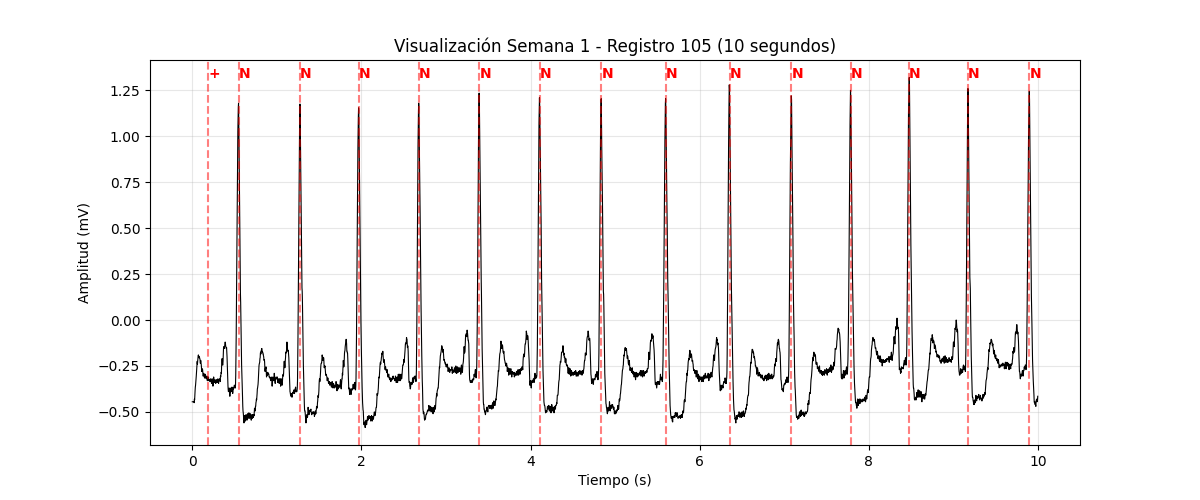
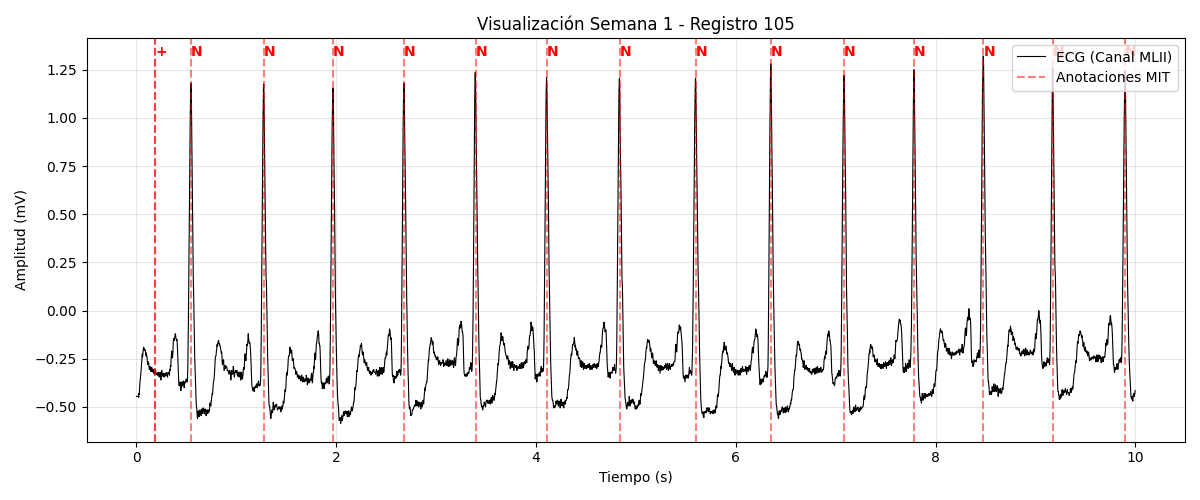
Semana 1: Modificacion del codigo para que no sea codigo suelto y tenga una estructura orientada a objetos

diff --git a/modulos/semana1.py b/modulos/semana1.py
@@ -3,71 +3,87 @@ import os
 import matplotlib.pyplot as plt
 import numpy as np
 
-# 1. CONFIGURACIÓN DE RUTAS
+# Configuración de rutas
 BASE_DIR = os.path.dirname(os.path.dirname(os.path.abspath(__file__)))
 DATA_PATH = os.path.join(BASE_DIR, 'datos')
 RESULT_PATH = os.path.join(BASE_DIR, 'resultados')
 
-if not os.path.exists(RESULT_PATH):
-    os.makedirs(RESULT_PATH)
+class AdquisicionPhysioNet:
+    """
+    Clase para gestionar la descarga, lectura y visualización de señales
+    provenientes de la base de datos MIT-BIH de PhysioNet.
+    """
 
+    def __init__(self, nombre_registro):
+        """
+        Inicializa la clase con el nombre del registro y define las rutas.
+        :param nombre_registro: ID del registro (ej. '100')
+        """
+        self.nombre_reg = nombre_registro
+        self.ruta_completa = os.path.join(DATA_PATH, nombre_registro)
+        self.record = None
+        self.ann = None
 
-def graficar_semana_1(nombre_reg, segundos=10):
-    ruta_reg = os.path.join(DATA_PATH, nombre_reg)
+    def leer_metadatos(self):
+        """
+        Lee el archivo .hea y extrae la frecuencia de muestreo y metadatos.
+        Imprime la información técnica en la consola.
+        """
+        self.record = wfdb.rdrecord(self.ruta_completa)
+        fs = self.record.fs
+        unidades = self.record.units[0]
+        n_derivaciones = self.record.n_sig
+        duracion_seg = self.record.sig_len / fs
 
-    # --- PUNTO 2: LECTURA Y EXTRACCIÓN DE METADATOS ---
-    # Leemos el registro completo para extraer la info del encabezado (.hea)
-    record = wfdb.rdrecord(ruta_reg)
+        print(f"\n" + "="*40)
+        print(f"ANÁLISIS DEL REGISTRO: {self.nombre_reg}")
+        print(f"Frecuencia de Muestreo: {fs} Hz")
+        print(f"Duración Total: {duracion_seg:.2f} segundos")
+        print(f"Número de Derivaciones: {n_derivaciones}")
+        print(f"Unidades de la Señal: {unidades}")
+        print("="*40)
 
-    # Extracción de variables requeridas
-    fs = record.fs
-    unidades = record.units[0]  # Usualmente 'mV'
-    n_derivaciones = record.n_sig
-    nombres_deriv = record.sig_name
-    duracion_seg = record.sig_len / fs
+    def graficar_señal(self, segundos=10):
+        """
+        Genera una gráfica de la señal en mV con sus respectivas anotaciones.
+        :param segundos: Cantidad de tiempo a visualizar.
+        """
+        muestras = int(self.record.fs * segundos)
+        record_plot = wfdb.rdrecord(self.ruta_completa, sampto=muestras)
+        self.ann = wfdb.rdann(self.ruta_completa, 'atr', sampto=muestras)
 
-    # Impresión en consola según requerimiento de la guía
-    print(f"\n" + "=" * 40)
-    print(f"ANÁLISIS DEL REGISTRO: {nombre_reg}")
-    print(f"Frecuencia de Muestreo: {fs} Hz")
-    print(f"Duración Total: {duracion_seg:.2f} segundos")
-    print(f"Número de Derivaciones: {n_derivaciones}")
-    print(f"Nombres de Derivaciones: {nombres_deriv}")
-    print(f"Unidades de la Señal: {unidades}")
-    print("=" * 40)
+        tiempo = np.arange(len(record_plot.p_signal)) / self.record.fs
+        senal = record_plot.p_signal[:, 0]
 
-    # --- PUNTO 3: VISUALIZACIÓN ---
-    # Volvemos a leer solo los 10 segundos para la gráfica
-    muestras_10s = int(fs * segundos)
-    record_plot = wfdb.rdrecord(ruta_reg, sampto=muestras_10s)
-    ann = wfdb.rdann(ruta_reg, 'atr', sampto=muestras_10s)
+        plt.figure(figsize=(12, 5))
+        # Se agrega 'label' para cumplir con el requisito de leyenda
+        plt.plot(tiempo, senal, color='black', lw=0.8, label=f'ECG (Canal {record_plot.sig_name[0]})')
 
-    tiempo = np.arange(len(record_plot.p_signal)) / fs
-    senal = record_plot.p_signal[:, 0]
+        # Superponer anotaciones
+        for i in range(len(self.ann.sample)):
+            pos_x = self.ann.sample[i] / self.record.fs
+            plt.axvline(x=pos_x, color='red', linestyle='--', alpha=0.5)
+            if i == 0: # Solo ponemos label a la primera línea para la leyenda
+                plt.axvline(x=pos_x, color='red', linestyle='--', alpha=0.5, label='Anotaciones MIT')
+            plt.text(pos_x, max(senal), self.ann.symbol[i], color='red', fontweight='bold')
 
-    plt.figure(figsize=(12, 5))
-    plt.plot(tiempo, senal, color='black', lw=0.8)
+        plt.title(f"Visualización Semana 1 - Registro {self.nombre_reg}")
+        plt.xlabel("Tiempo (s)")
+        plt.ylabel(f"Amplitud ({self.record.units[0]})")
+        plt.grid(True, alpha=0.3)
+        plt.legend(loc='upper right') # REQUISITO: Leyenda incluida
+        plt.tight_layout()
 
-    # Superponer anotaciones (Líneas rojas y símbolos)
-    for i in range(len(ann.sample)):
-        posicion_x = ann.sample[i] / fs
-        plt.axvline(x=posicion_x, color='red', linestyle='--', alpha=0.5)
-        plt.text(posicion_x, max(senal), ann.symbol[i],
-                 color='red', fontweight='bold', horizontalalignment='center')
-
-    plt.title(f"Visualización Semana 1 - Registro {nombre_reg} ({segundos} segundos)")
-    plt.xlabel("Tiempo (s)")
-    plt.ylabel(f"Amplitud ({unidades})")  # Usamos las unidades extraídas del .hea
-    plt.grid(True, alpha=0.3)
-    plt.tight_layout()
-
-    plt.savefig(os.path.join(RESULT_PATH, f'grafica_semana1_{nombre_reg}.png'))
-    plt.show()
-
+        if not os.path.exists(RESULT_PATH):
+            os.makedirs(RESULT_PATH)
+        plt.savefig(os.path.join(RESULT_PATH, f'grafica_{self.nombre_reg}.png'))
+        plt.show()
 
 if __name__ == "__main__":
-    if os.path.exists(os.path.join(DATA_PATH, '100.hea')):
-        graficar_semana_1('100')
-        graficar_semana_1('105')
-    else:
-        print("Error: Registros no encontrados. Ejecuta primero descarga_datos.py")
+    for reg_id in ['100', '105']:
+        if os.path.exists(os.path.join(DATA_PATH, f'{reg_id}.hea')):
+            obj = AdquisicionPhysioNet(reg_id)
+            obj.leer_metadatos()
+            obj.graficar_señal(10)
+        else:
+            print(f"Error: No se encuentra el registro {reg_id}")
